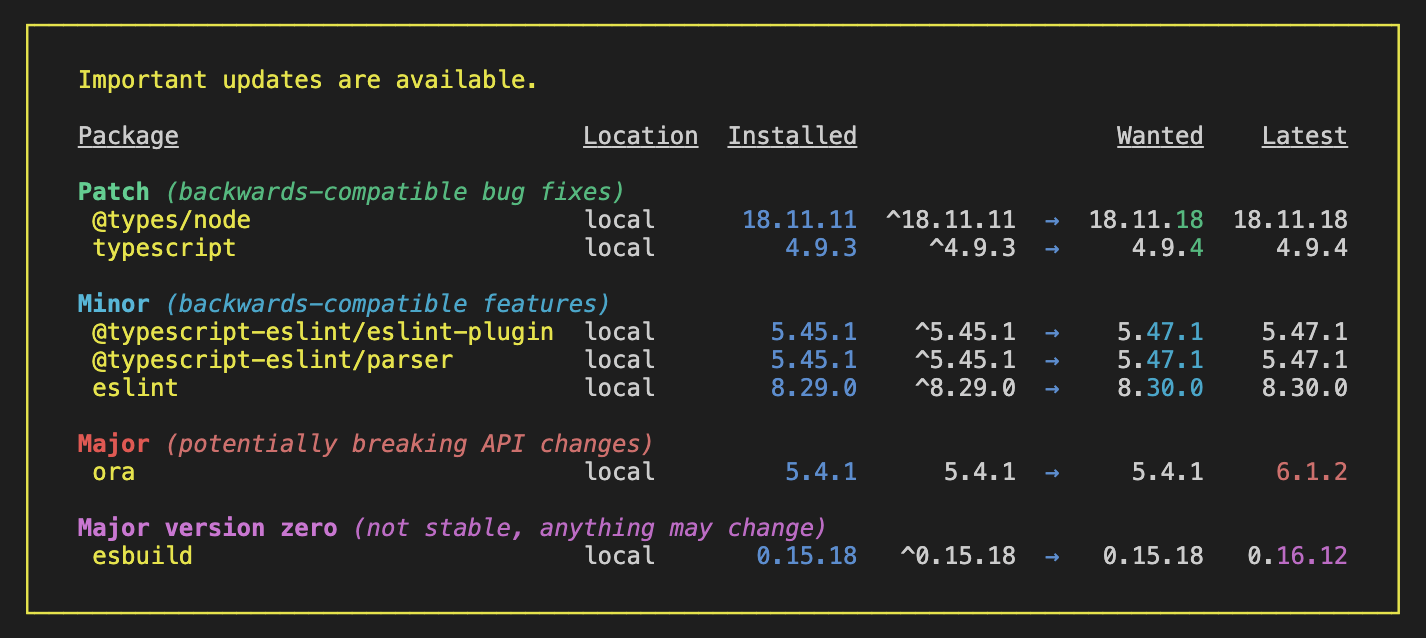
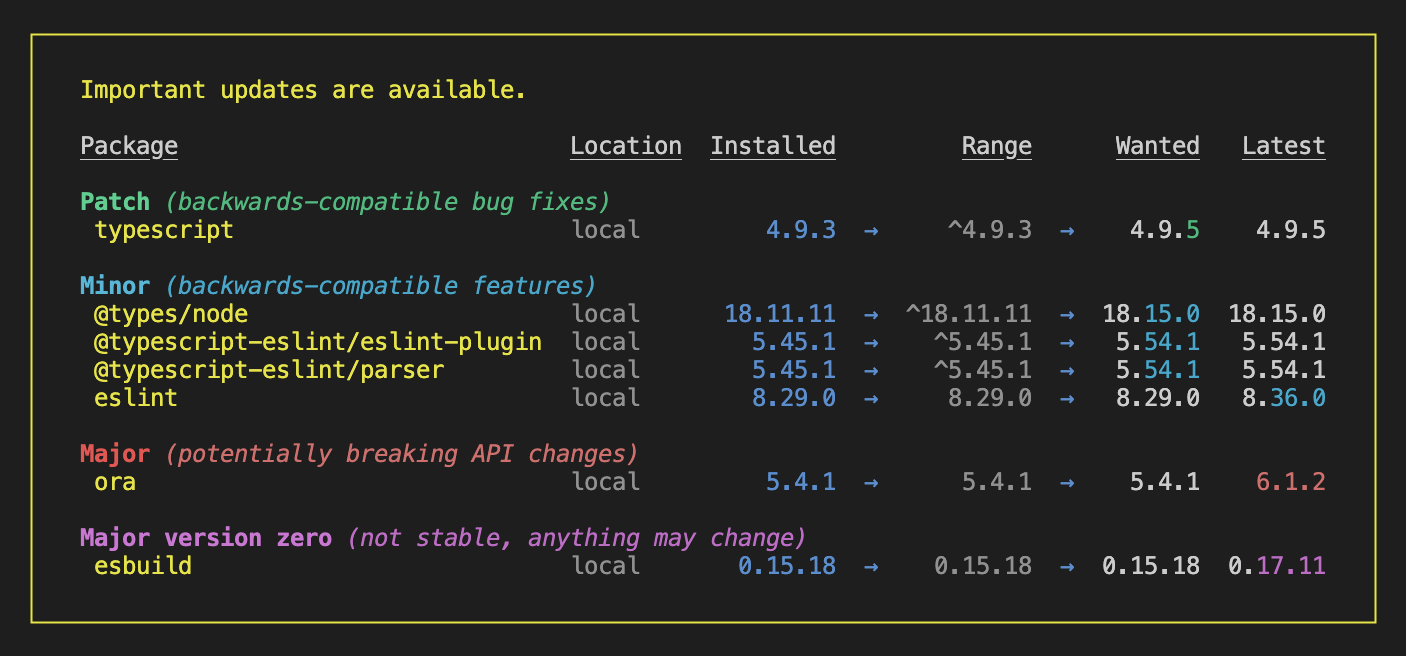
refactor(cli): improve readability

diff --git a/src/cli.ts b/src/cli.ts
@@ -1,4 +1,4 @@
-import { blue, bold, cyan, green, italic, magenta, red, reset, strip, underline, yellow } from '@colors/colors/safe';
+import { blue, bold, cyan, gray, green, italic, magenta, red, reset, strip, underline, yellow } from '@colors/colors/safe';
 import { existsSync, readFileSync } from 'fs';
 import { dirname } from 'path';
 import latestVersion, { type Package, type PackageJson, type LatestVersionPackage, LatestVersionOptions } from './index';
@@ -51,6 +51,7 @@ const columnCellRenderer = (column: TableColumn, row: TableRow): string => {
     switch (column.attrName) {
         case 'name': text = yellow(text); break;
         case 'installed': case 'separator': text = blue(text); break;
+        case 'location': case 'tagOrRange': text = gray(text); break;
         case 'wanted': text = colorizeDiff(row.installed, text); break;
         case 'latest':
             if (text !== row.wanted) {
@@ -86,7 +87,8 @@ const getTableColumns = (rows: TableRow[]): TableColumn[] => {
         { label: 'Package', attrName: 'name', align: 'left', maxLength: 0, items: [] },
         { label: 'Location', attrName: 'location', align: 'left', maxLength: 0, items: [] },
         { label: 'Installed', attrName: 'installed', align: 'right', maxLength: 0, items: [] },
-        { label: '', attrName: 'tagOrRange', align: 'right', maxLength: 0, items: [] },
+        { label: '', attrName: 'separator', align: 'center', maxLength: 0, items: [] },
+        { label: 'Range', attrName: 'tagOrRange', align: 'right', maxLength: 0, items: [] },
         { label: '', attrName: 'separator', align: 'center', maxLength: 0, items: [] },
         { label: 'Wanted', attrName: 'wanted', align: 'right', maxLength: 0, items: [] },
         { label: 'Latest', attrName: 'latest', align: 'right', maxLength: 0, items: [] }
